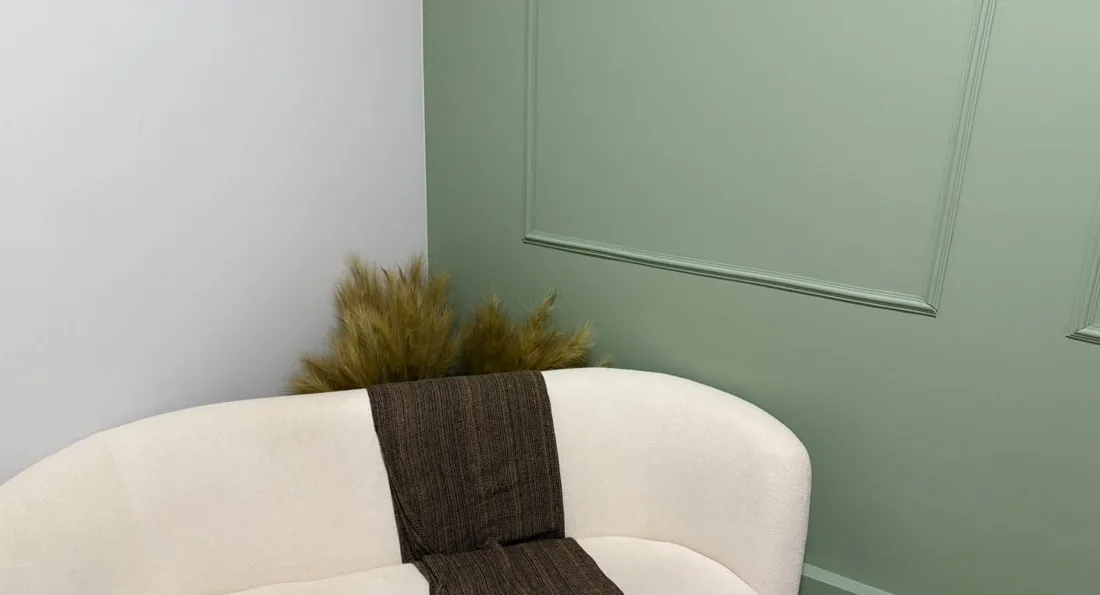
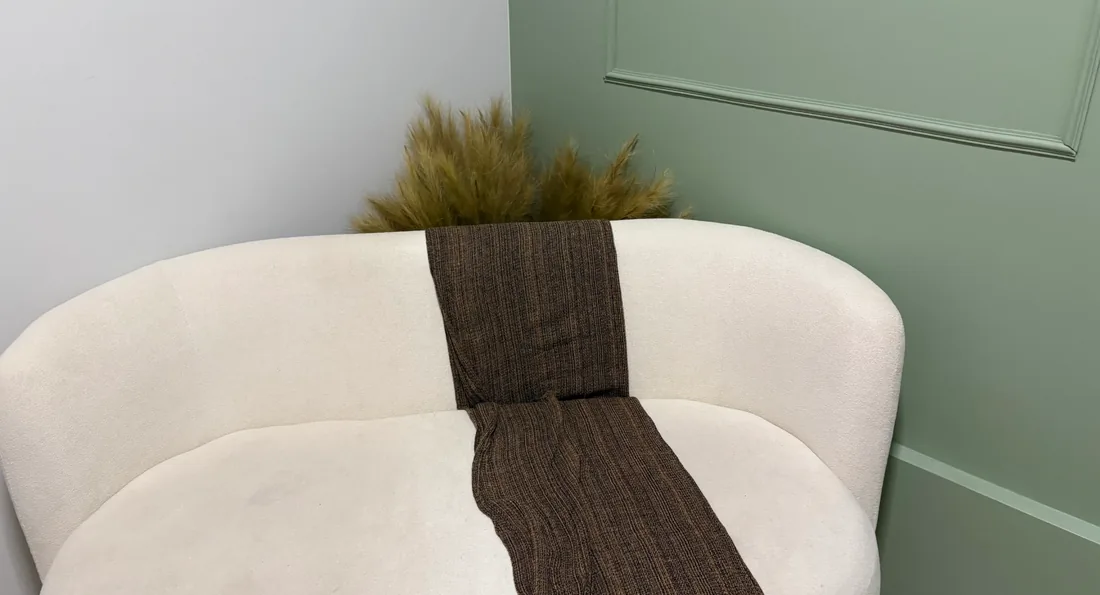
Temporário: foto nova do consultório da Amanda Ribeiro
Claude-Session: https://claude.ai/code/session_019fgy7BXVWUNQqpGT8GgkPz

diff --git a/clientes/amanda-ribeiro/index.html b/clientes/amanda-ribeiro/index.html
@@ -192,7 +192,7 @@
       <div class="cons-grid">
         <figure class="foto revela"><img src="assets/img/consultorio-700.webp" srcset="assets/img/consultorio-700.webp 700w, assets/img/consultorio-1100.webp 1100w" sizes="(min-width: 960px) 620px, 100vw" width="700" height="426" loading="lazy" decoding="async" alt="Sala de atendimento com poltrona de veludo, mesa de madeira e janela com vista para prédios."></figure>
         <div class="cons-info revela" style="--d:60ms">
-          <figure class="foto foto-p"><img src="assets/img/sofa-700.webp" srcset="assets/img/sofa-700.webp 700w, assets/img/sofa-1100.webp 1100w" sizes="(min-width: 960px) 440px, 100vw" width="700" height="379" loading="lazy" decoding="async" alt="Sofá claro com manta marrom, diante de uma parede verde."></figure>
+          <figure class="foto foto-p"><img src="assets/img/sofa-700.webp" srcset="assets/img/sofa-700.webp 700w, assets/img/sofa-1100.webp 1100w, assets/img/sofa-1400.webp 1400w" sizes="(min-width: 960px) 440px, 100vw" width="700" height="379" loading="lazy" decoding="async" alt="Sofá claro com manta marrom, diante de uma parede verde."></figure>
           <address class="endereco">
             <b>Ed. Enseada Trade Center, sala 619</b>
             Rua Professor Almeida Cousin, 125<br>Enseada do Suá, Vitória (ES)
